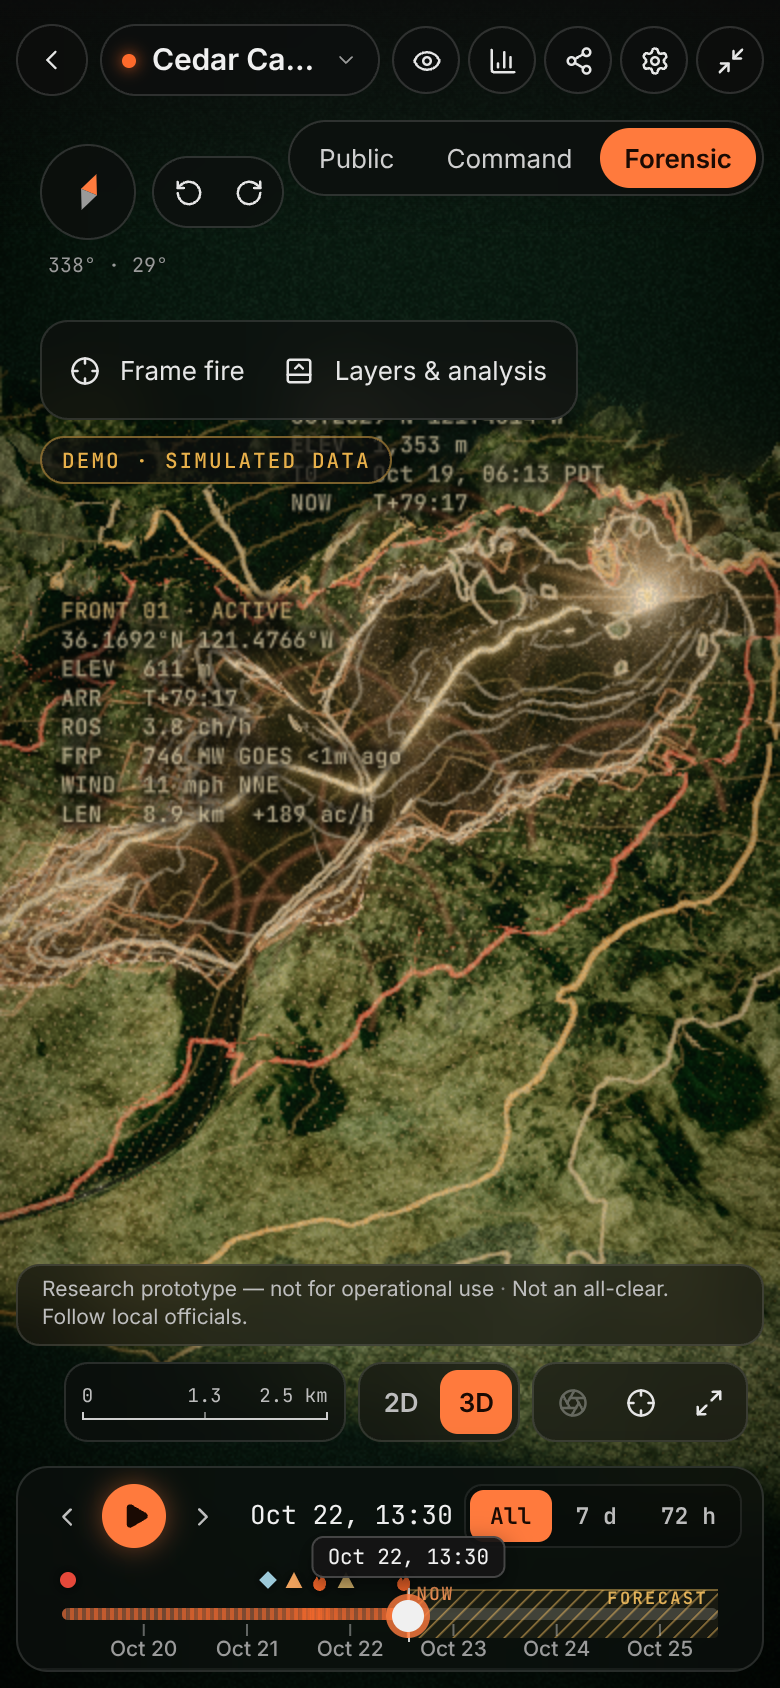
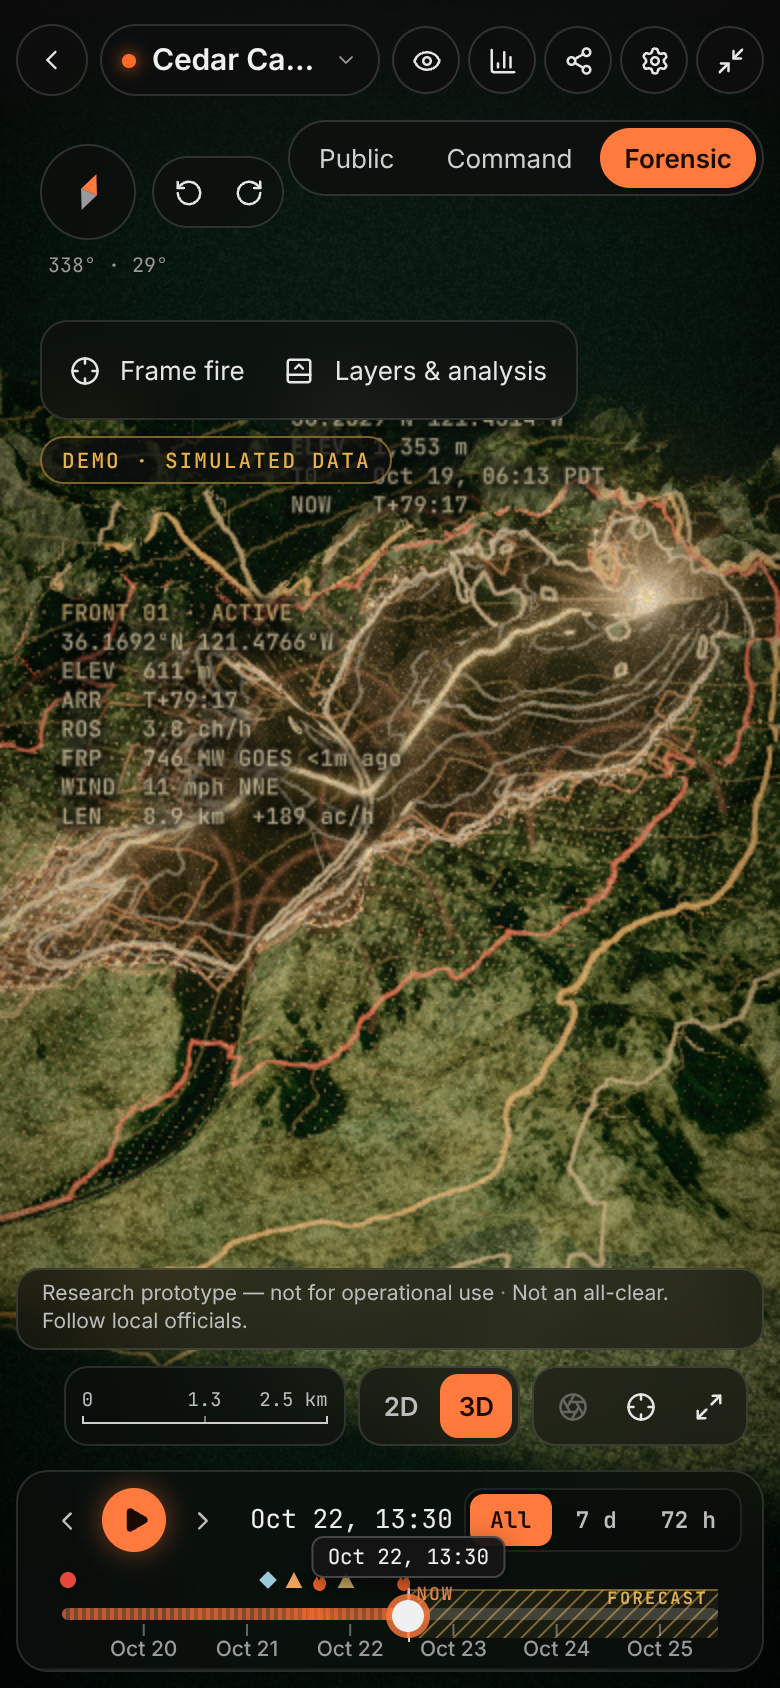
brief 4 H5: Forensic restyle and rotation finished (dock 112 px, medium-screen bar, CONTRACT 15.5, report)
Forensic matches ForensicView.dc.html: the floating top bar (back, logo, picker
pill, place and dates, centred view pill, Incident | Aircraft, round tool
pills), compass with drag and turn buttons, entry controls under it, grey
glass right panel and timeline dock, disclaimer pill, top gradient. Rotation
in 2D and 3D through sceneStore 'rotate' / 'set-heading', the rotation
registry, Safari and touch twists and the map hand-off heading.

This commit: the timeline dock trimmed to the screen's 112 px, icon-only
header tabs at <= 1180 px, the place over the dates on tight bars, no needle
transition across north, the final screenshots, CONTRACT 15.5 "H5 as built",
the report and progress notes. Browser checks 23/23 (scratch, not in repo).

Claude-Session: https://claude.ai/code/session_016JQLLLPiy3zrdDeXcY1uZS

diff --git a/web/src/ui/Header.tsx b/web/src/ui/Header.tsx
@@ -40,7 +40,10 @@ function IncidentMeta() {
   const tr = manifest?.time_range
   const start = tr?.start_ms ?? summary.started_ms
   const end = summary.mode === 'live' ? null : (summary.contained_ms ?? tr?.end_ms ?? null)
-  const dates = `${fmtDayDate(start, tf.tz, { year: 'always' })} – ${end ? fmtDayDate(end, tf.tz, { year: 'always' }) : 'present'}`
+  // "Jun 28, 2026 – present"; a past fire within one year: "Sep 1 – Nov 14, 2025"
+  const dates = end
+    ? `${fmtDayDate(start, tf.tz, { year: 'auto', refMs: end })} – ${fmtDayDate(end, tf.tz, { year: 'always' })}`
+    : `${fmtDayDate(start, tf.tz, { year: 'always' })} – present`
   const where = [summary.location, summary.county ? `${summary.county} County` : null, summary.state ?? null].filter(Boolean).join(', ')
   // TopBarPlace's look (.tb-place, .tb-date), on one line on wide screens and as two lines (place over dates) where
   // the bar is tight, so the dates stay readable beside a long name (styles/header.css)
@@ -67,7 +70,7 @@ function HeaderTabs() {
   const active = live ? tab : 'incident'
   return (
     <div className="hdr-tabs" role="tablist" aria-label="Context">
-      <button type="button" role="tab" aria-selected={active === 'incident'} className="hdr-tab" onClick={() => setTab('incident')}>
+      <button type="button" role="tab" aria-selected={active === 'incident'} className="hdr-tab" data-tip="Incident: layers, analysis, evidence and notes" onClick={() => setTab('incident')}>
         <MapIcon size={13} aria-hidden="true" />
         Incident
       </button>

diff --git a/web/src/scene/overlays/overlays.css b/web/src/scene/overlays/overlays.css
@@ -88,9 +88,9 @@
   outline-offset: 2px;
   box-shadow: none;
 }
+/* no transition on the needle: crossing north (5° → 355°) would spin it the long way round */
 .sc-compass svg {
   display: block;
-  transition: transform 0.08s linear;
 }
 .sc-needle-n {
   fill: #ff7a3d;
@@ -466,7 +466,6 @@
     animation: none;
     left: 30%;
   }
-  .sc-compass svg,
   .sc-compass,
   .sc-seg,
   .sc-icon-btn {

diff --git a/web/src/styles/header.css b/web/src/styles/header.css
@@ -269,8 +269,14 @@
   .fx-bar .tb-left > .tb-sep {
     display: none;
   }
+  /* Incident | Aircraft as icons (and the aircraft count); the words stay the tabs' accessible names and tooltips */
   .fx-bar .hdr-tab {
     padding: 0 9px;
+    gap: 4px;
+    font-size: 0;
+  }
+  .fx-bar .hdr-tab .count-badge {
+    font-size: 10px;
   }
 }
 

diff --git a/web/src/styles/forensic-entry.css b/web/src/styles/forensic-entry.css
@@ -16,9 +16,10 @@
   .app.fx-dock-min .dock .ke {
     display: none;
   }
+  /* the screen's 112 px timeline dock */
   .app.fx-dock-min .dock .tl {
     border-bottom: 0;
-    padding-bottom: 6px;
+    padding-bottom: 0;
   }
 }
 

diff --git a/web/src/styles/dock.css b/web/src/styles/dock.css
@@ -151,7 +151,7 @@
 .tl-track {
   position: relative;
   height: 62px;
-  margin-top: 4px;
+  margin-top: 2px;
   cursor: pointer;
   touch-action: none;
   user-select: none;

diff --git a/docs/redesign/CONTRACT.md b/docs/redesign/CONTRACT.md
@@ -3587,7 +3587,120 @@ _H4: to be filled._
 
 #### H5 (Forensic) — as built
 
-_To be filled by H5._
+Built 2026-10-24 by H5 (one builder; report `reports/brief4-h5.json`, screenshots `docs/screenshots/brief4-h5-*.png`,
+progress `progress/brief4-h5.md`). Forensic matches `screens/ForensicView.dc.html` / `renders/ForensicView.jpg` in
+layout and colour; every datum, layer, control and behaviour of the Forensic workspace is kept. Where this differs from
+§15.1-15.4, this sub-section is what the code does.
+
+**Tokens** (`styles/theme.css`, Forensic values; the map workspace still re-points the shared names to its `--m-*`
+tokens). Greys: `--bg-0 #0c0c0c`, `--bg-1 #141414`, `--glass rgba(14,14,14,.62)`, `--glass-strong .8`, `--glass-soft .5`,
+`--glass-raised rgba(26,26,26,.94)`, `--glass-blur blur(22px) saturate(140%)`, `--hairline rgba(200,200,200,.16)` (soft
+.08, strong .28), `--text #f0f0f0`, new `--text-body #e6e6e6`, `--text-2 #bdbdbd`, `--text-3 #9a9a9a`, `--text-4 #7a7a7a`,
+new `--link #e0e0e0`, `--shadow 0 12px 32px rgba(0,0,0,.4)`, `--focus-ring 0 0 0 2px #d0d0d0`. UI accent: `--gold #ff7a3d`
+(the names keep "gold" so components follow by value), `--gold-bright #f0f0f0` (the light highlight text, as the map's
+`--m-accent-text`), `--gold-dim/-soft/-faint/-ghost` = the accent at .55 / .28 / .14 / .07, new `--accent-ink #1a0a03`,
+`--accent-hover #ff8d57`. Status: `--ok #8fd3a8`, `--warn #e8b04a`, `--danger #f87171`, new `--fire-3 #ff9a5a`. Charts:
+`--chart-observed #ff8a3c`, `--chart-forecast #f5c060`, `--chart-band rgba(245,192,96,.2)`, `--chart-cursor #e6e6e6`,
+greyed axis and grid. Kept: `--lattice-*`, `--fire`, `--fire-*`, `--ember`, `--ev-*`, `--ac-*`, `--chart-frp`,
+`--chart-terrain` and every three.js colour (green terrain, gold scene graphics). Layout: new `--bar-top 20px`, `--edge
+16px`; `--header-h 40px`, `--panel-w 336px` (316 px ≤ 1280 px); `--safe-*` follow the new frame. Links are light grey and
+underlined (`a`, global; the map keeps its own rule in `map-bridge.css`). Range sliders: `--range-fill` / `--range-ring`
+(set only under `html[data-workspace='forensic']`: grey `#cfcfcf` fill, plain light thumb; the map keeps the accent).
+
+**Global CSS** (`theme.css`, `controls.css`, `header.css`, `overlays.css`, `layout.css`): every hard-coded gold became the
+accent or a grey: `.seg-btn[aria-checked]` and `.btn-solid` accent + `--accent-ink`, `.switch` / `.check` / `.spinner` /
+`.progress-fill` / `.fc-pill` accent, `.tab` underline without glow, chips' frames, `.popover` `rgba(18,18,18,.92)`,
+`.tooltip` `rgba(20,20,20,.96)`, `.ov-card` `rgba(14,14,14,.82)`, `.card-link` grey underlined, empty notes, inputs,
+corner marks. Forensic-only (scoped `:root[data-workspace='forensic']`): menu icons grey. The map workspace's look is
+unchanged (its tokens and `map-bridge.css` resolve to the same values); Public and Command checked against the H2
+screenshots (`brief4-h5-mapcheck-*.png`).
+
+**Top bar** (`ui/Header.tsx`, `styles/header.css`): H2's `TopBar inset="forensic" className="fx-bar"` inside
+`.app-header` (top 20, sides 20, height 40; the bar fills it). Left: `BackButton` "Back to all fires" (switches to the map,
+then `goToOverview()`: history-aware, the map's overview framing), `TopBarBrand size 22`, a hairline, the
+`IncidentPicker` (pill variant, restyled in CSS only: 36 px glass pill, "● LIVE" mono `#ff9a5a` without the chip frame, or
+the year as the bar's grey chip; name 16/600; caret; the map's `is-title` trigger is untouched), then the place in
+`TopBarPlace`'s classes (`.tb-place.fx-place`: "<County> County", else `placeLine(summary)`, and the mono dates "Jun 28,
+2026 – present" / "Sep 1 – Nov 14, 2025"; one line with " · " above 1600 px, place over dates below, hidden ≤ 1280 px;
+the full location and the coordinates in the tooltip). Centre: `ViewPill className="fx-bar-view"`. Right: the Incident | Aircraft (n) tabs as a glass pill group
+(active = light wash), then `nav.hdr-actions`: `ViewMenu` ("View options", eye), `AnalysisMenu`, `ShareButton`,
+`SettingsMenu` and "Hide panels (H)" as 34 px `IconPill`s (`.fx-tool`; a menu's pill is accent while open; Share is
+`aria-disabled` without a fire). Settings' keyboard list adds Q / E (turn 15°) and N (north up). The tagline is dropped;
+≤ 1180 px the brand name hides. A 2 px busy line runs along the window's top edge. Collapsed
+("H"): `MiniBar` is a glass pill (logo, name, ● LIVE / year, time, accent play, a small `ViewPill`, "Panels H") — the view
+switch stays reachable now that the floating one is gone.
+
+**Workspace** (`ui/shell/ForensicWorkspace.tsx`, `styles/forensic-entry.css`, `layout.css`): the floating `.fx-ws-switch`
+is removed. `.fx-ws` (left `safe-left + 8`, top `safe-top + 100`) holds "Frame fire" / "Charts & key events" (the
+screen's glass box, 36 px rows; phones "Layers & analysis") and the demo badge (amber mono pill). `.fx-topfade`: the
+screen's 120 px top gradient inside `.app-canvas` (above the terrain, under the scene controls). `.fx-note`: `FixedCopy
+variant="pill"` (`PROTOTYPE_LINE` · `NOT_ALL_CLEAR`) left 16, 4 px above the dock (it follows the dock's height); 761-1279
+px one row higher (the view controls need the row); the right column's old footer line is gone. Right column
+(`.rcol`): top 76, right 16, bottom 16, 336 px; `.rp` radius 16, cards 14. Dock: left 16, right 368, bottom 16; with the
+timeline only it is 110 px tall (the screen's 112); "Charts & key events" opens the unchanged charts row.
+
+**No fire** (`OpenFireFirst`): the floating `TopBar` (back = "Back to the map", logo, "Forensic · 3D analysis", the view
+pill) over the ground; "Zoom in on a fire or pick one" as a grey glass panel (radius 16, title 18/600) with the same text,
+"Back to the map", the fire list and the fire card.
+
+**Right panel** (`styles/panel.css`, `ui/RightPanel.tsx`, `ui/LayersTab.tsx` unchanged markup): tabs 14 px with the 2 px
+accent underline, count chip grey, the Evidence warnings dot accent; group heads mono 10.5 .16em with count and the eye
+toggle grey; rows 18 px accent check boxes with dark ticks, 26×18 swatches (data colours kept; their dark bases neutral),
+13 px names, grey sliders, mono 10.5 %; Incident Overview starts collapsed (`defaultOpen={false}`, the choice remembered
+under `fire3d:card:overview`) with the agency link; Weather & Fire Behavior (`ui/WeatherCard.tsx`): the screen's grid
+(icon + label on one line, mono 18 px value, mono sub line), header wraps, "at fire front", ANL grey / FCST amber stamp;
+flame length `#ff9a5a` (red from 8 ft), other warn tones `#e8b04a`; icons kept.
+
+**Timeline and charts** (`styles/dock.css`, `ui/Timeline.tsx`, `ui/Charts.tsx`): title 14/600, step buttons grey, play
+36 px accent with dark ink and a soft glow, speed "1 h/s ▾" outlined, time mono 15 px white + zone + T+ grey, range tabs
+All / 7 d / 72 h mono accent, window text grey; track grey, past part orange-hatched, forecast window hatched in the
+modeled amber (pattern and label), NOW / T₀ mark `#ff9a5a`, handle a 16 px light knob with the accent ring and a grey
+bubble. Key Events: accent current / selected marks, kind glyphs in the map feed's colours (`ui/feed/keyEvents.css`).
+Charts: the profile's modeled part amber-hatched, cursor light grey, readouts grey glass.
+
+**Scene overlays** (`scene/overlays/SceneOverlays.tsx`, `overlays.css`): grey glass (`rgba(14,14,14,.6)` + blur 18,
+hairline .16, radius 12). Compass: a 60 px dial (48 on phones) at `safe-top + 8` / `safe-left + 8` with the screen's
+needle (north `#ff7a3d`, south `#9a9a9a`; no CSS transition, so crossing north never spins it the long way), "338° · 29°"
+(heading · tilt) under it, ⟲ ⟳ (`.sc-turn`, 15°) beside it.
+View dock (right `safe-right + 4`, bottom `safe-bottom`): scale (light grey bar), 2D / 3D accent with dark ink, the
+exaggeration and quality `<select>`s drawn as "1.5× ▾" / "High ▾", depth of field (on = light wash), frame fire, full
+screen; on phones the two selects hide (both are in View options). Probe readout and quality toast grey. The 3D
+selection pin is light blue (`#9fd6ff` / `#cfeaff`, `scene/overlays/SelectionPin.tsx`).
+
+**Rotation** (decisions f, k). `scene/sceneStore.ts`: `CameraCommandKind` adds `'rotate'` and `'set-heading'`;
+`CameraCommand.deg?`; `issueCameraCommand(kind, deg?)`. `scene/camera/heading.ts` (pure, tested): `headingOfAzimuth(az)`
+(= −azimuth, [0, 360)), `azimuthOfHeading(deg)`, `turnedAzimuth(az, deg)`, `TWIST_THRESHOLD_DEG` (4), `TwistTracker`
+(two touch points → `{ start, turned }` once past the threshold; a pinch never turns). `scene/camera/CameraRig.tsx`:
+controls rotate in 2D too, with the polar angle clamped to top-down (`minPolarAngle = maxPolarAngle = POLAR_2D`), so a
+right-drag, Ctrl / Shift / Cmd + drag or a two-finger drag turn the azimuth only; 2D ↔ 3D keeps the heading (3D gets back
+its last tilt); commands run from a store subscription (one per frame while the compass is dragged, no re-render):
+`rotate` tweens 0.35 s and continues from a running turn's goal (repeated Q / E add up), `set-heading` is instant (it
+joins a running animation's goal), `reset-north` tweens to 0, and during another animation (2D ↔ 3D, a fly-to) a turn
+changes that animation's goal heading instead of cutting it short; a command also stops the controls' leftover drag
+inertia (`stopInertia`: three.js damping would otherwise keep turning after a right-drag); `frame-fire` keeps the heading (north up only on
+request; a new fire is still framed from the SSE by default); `store.flyTo.bearingDeg` sets the heading of the fly-to
+(the map's heading on the hand-off). The rig registers a `RotationTarget` (`state/rotation.ts`: Q / E / N reach it;
+`bearing()` reads the live camera), attaches Safari's twist (`lib/rotateGesture.ts`) and a touch twist to the canvas;
+every turn is a camera command, so `ui/shell/handoff.ts` sees the user's turn and the map gets the Forensic heading
+back. The compass uses `ui/useCompassDrag.ts` (drag around the dial = `set-heading`; click = north up; ← → on it = 15°).
+
+**Medium screens and phones.** ≤ 1180 px the Incident | Aircraft tabs show their icons (and the aircraft count) with
+the words as accessible names and tooltips; 761-1279 px the disclaimer pill sits one row above the view dock. Phones
+(`styles/forensic-narrow.css`): the bar keeps back, the picker (the LIVE dot, the name) and the five tool pills; the
+view pill drops to a row under the bar's right end; the dial is 48 px; entry controls in a row under it; the pill
+above the view dock; the right column stays the bottom sheet and the dock the timeline only (play 32 px, time 13 px).
+
+**Checked** (scratch Playwright, Chrome + SwiftShader at 1440×1000, not in the repo). Rotation 23/23
+(`h5-rotate-check.mjs`): Forensic opens at 337.5°; N → 0°; E → 15°; Q Q pressed together → 345° (whole steps); ⟳ / ⟲;
+a quarter-turn compass drag → −90°; compass click → north; → on the focused compass → +15°; 2D keeps 60° top-down; Q in
+2D; right-drag and Ctrl + drag turn the 2D view with the polar angle still 0.03°; a right-drag's inertia does not drift
+after N ⟲ ⟲ (330°); back to 3D keeps 330° at 61° tilt; a synthetic Safari twist of 30° → −26°; a CDP two-finger touch
+twist of 40° → −36°; Forensic → map carries the user's Forensic turn (30° → map 30°); map −50° → `flyTo.bearingDeg −50`
+→ Forensic 310°; reduced motion: no transitions on the play button, compass, view pill or busy line, and E still turns.
+Layout (`h5-measure.mjs`, fixture-live): bar 20 / 20 / 40 px, view pill centred (589 px each side), compass 20 / 80 / 60
+px, entry box top 172, right column top 76 / right 16 / bottom 16 / 336 px, dock left 16 / right 368 / bottom 16 / 112
+px, view dock right 368 / bottom 140, disclaimer pill left 16 / bottom 136 — the screen's numbers. Public and Command
+(`brief4-h5-mapcheck-*.png`) are unchanged against `brief4-h2-*.png` apart from H3+H4's own work in progress.
 
 #### Final check — as built
 

diff --git a/docs/redesign/progress/brief4-h5.md b/docs/redesign/progress/brief4-h5.md
@@ -17,3 +17,15 @@
   TwistTracker), flyTo.bearingDeg applied. Compass: 60 px grey dial, orange N, drag via useCompassDrag, ⟲ ⟳ beside.
 - First screenshots (fixture-live 1440, phone) viewed; phone fixes (dial 48, view pill row, dock selects hidden on
   phones as they are in View options, timeline row).
+- Rotation checks (scratch `h5-rotate-check.mjs`): first runs failed on timing (SwiftShader 0.5-4 fps; the published
+  heading lags) and one Vite HMR reload; rewritten to wait for the expected heading. Found and fixed: a right-drag's
+  damping inertia kept turning after a command (CameraRig `stopInertia`), a turn during 2D↔3D cut the tilt animation
+  short (now it changes that animation's goal), the needle's CSS transition spun the long way across north (removed).
+  Final run 23/23.
+- Layout measured against the screen (bar, compass, entry box, right column, dock 112 px after trimming the timeline's
+  padding, view dock, disclaimer pill): all match. 1024 px: header tabs icon-only ≤ 1180 px so the right side clears the
+  view pill. Place line: "<County> County" over the dates below 1600 px; one-year ranges drop the first year.
+- Public and Command screenshots vs H2: unchanged by H5's global CSS (differences are H3+H4's work in progress).
+- Gates (H5 files): typecheck ok; lint 55 in src/scene + 1 in the other chain's mapController.ts; tests: 1 failure in
+  the other chain's fireCard.test.ts (reads mapController.ts), none in H5 files; build ok. CONTRACT 15.5 "H5 as built",
+  report written. Finished.
